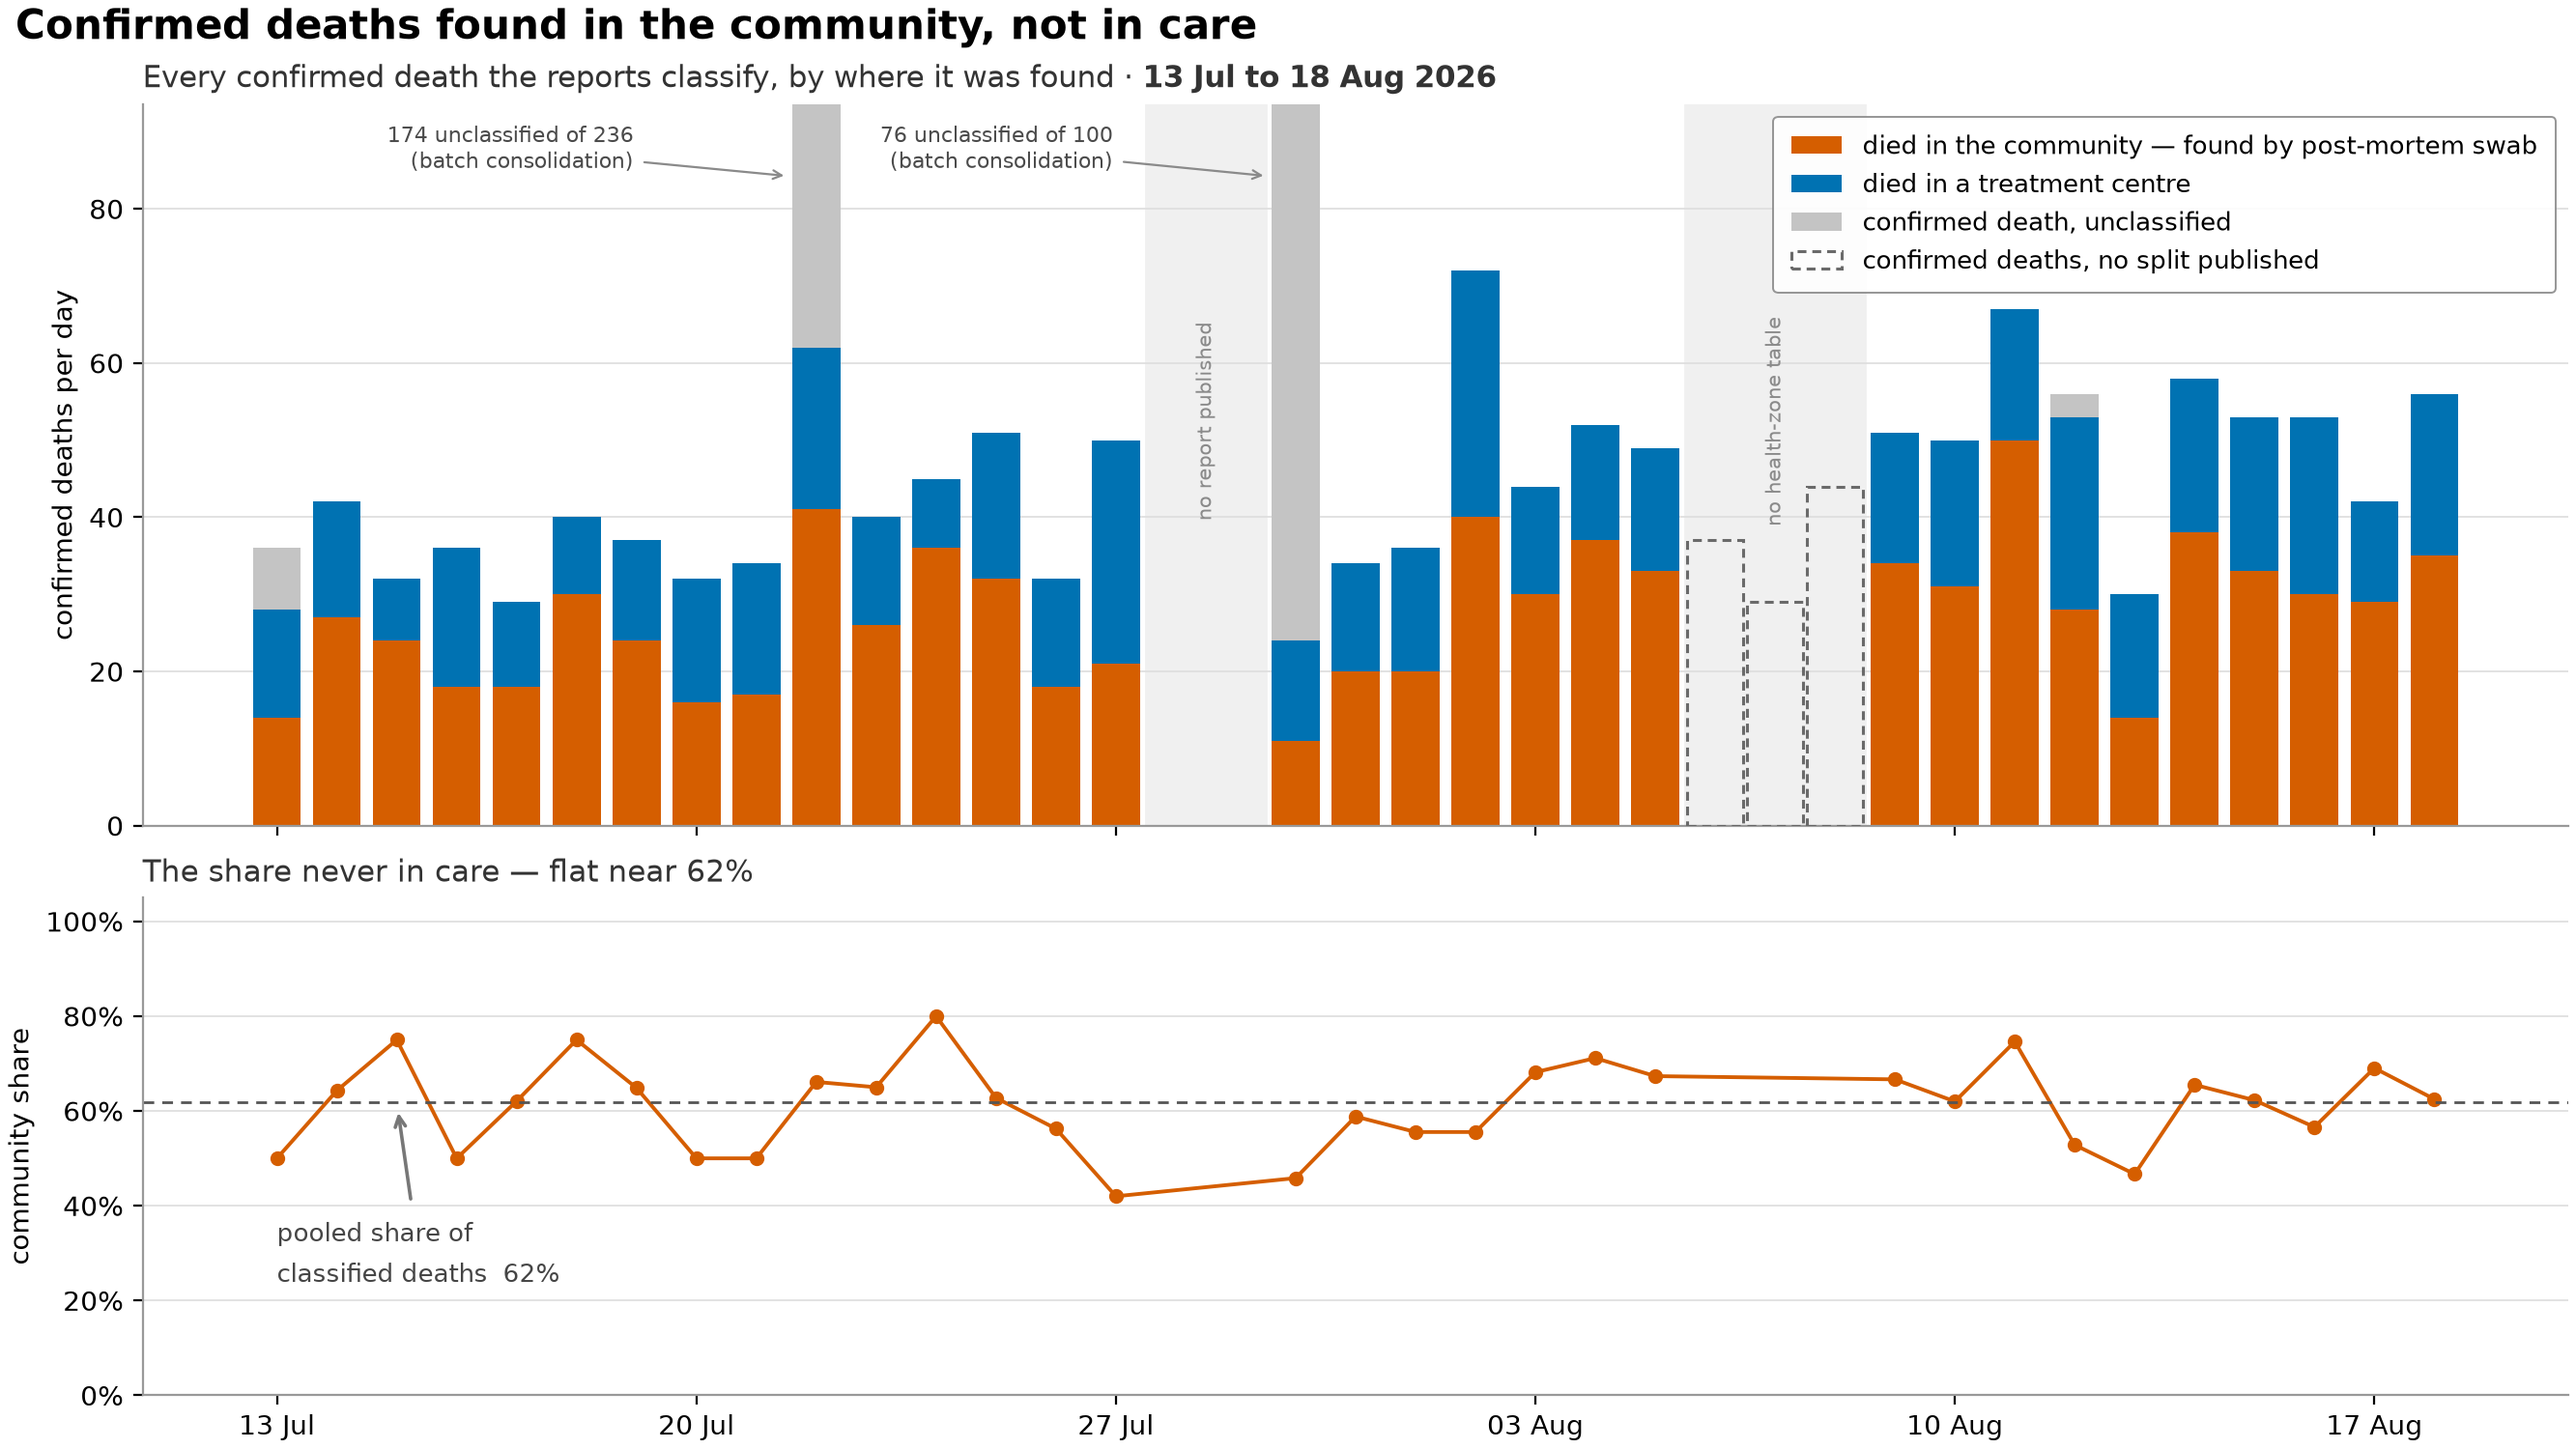
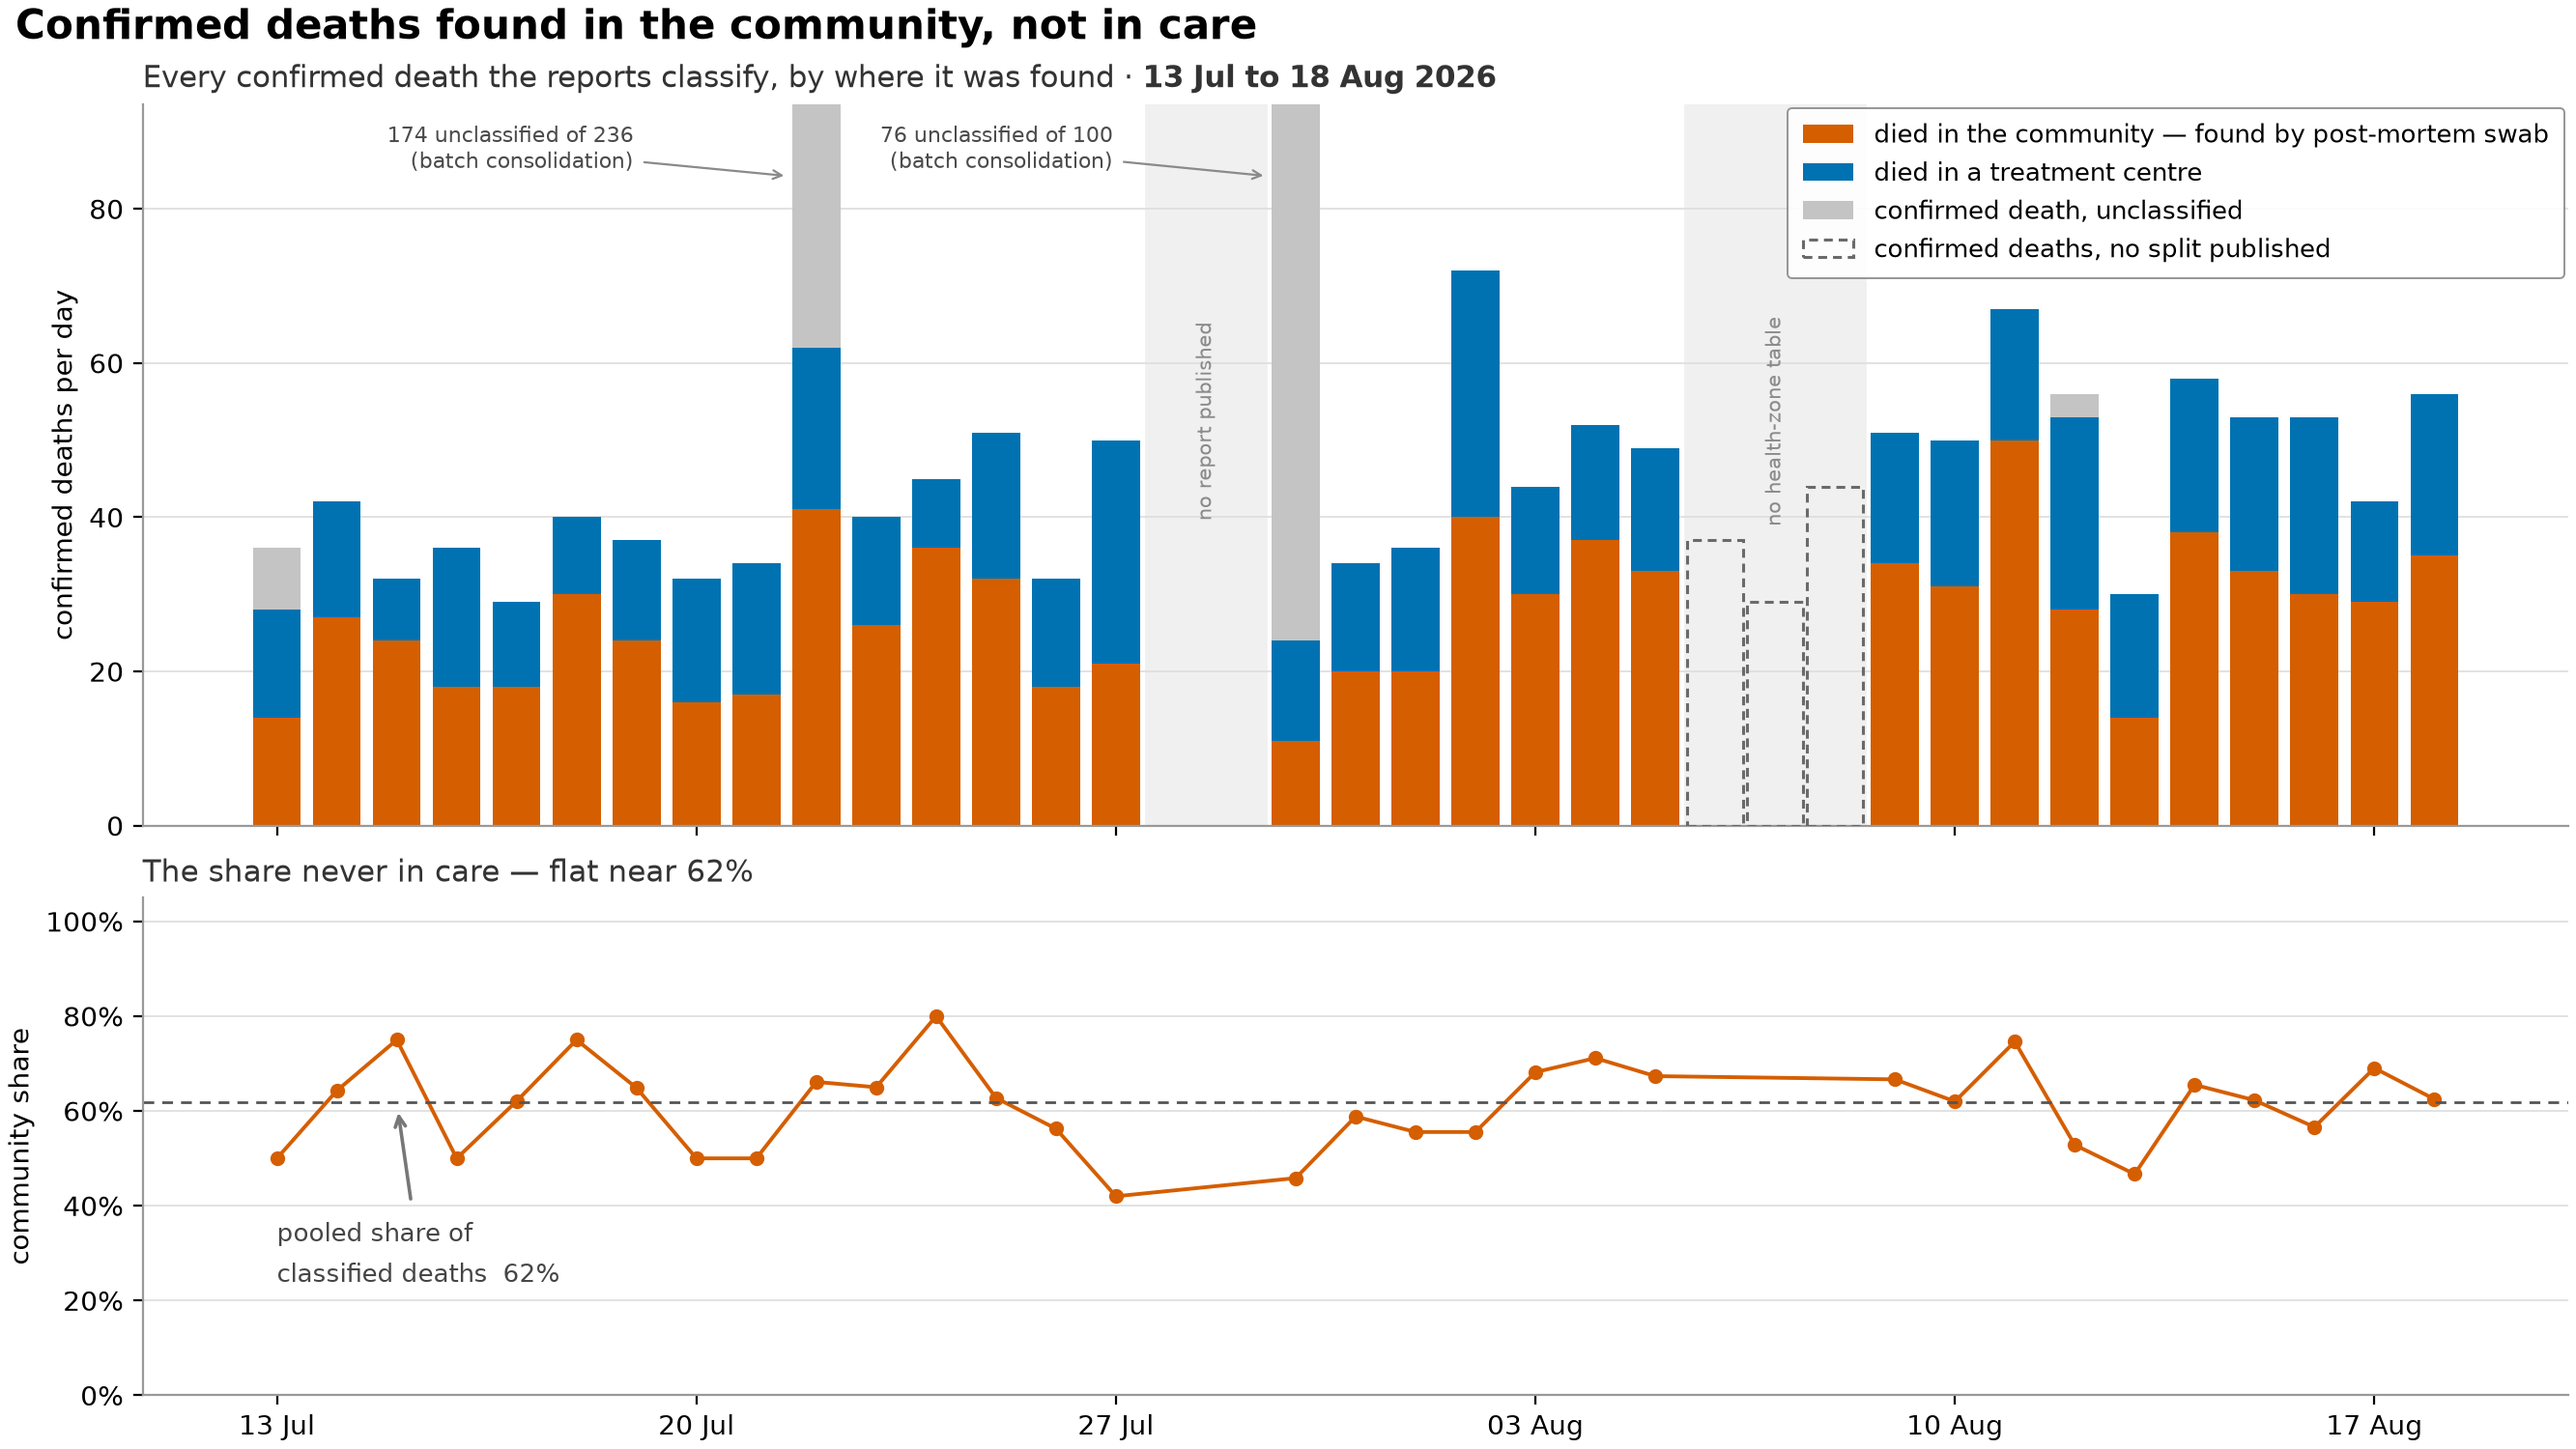
ascertainment: legend boxed, hard into the top-right corner
Claude-Session: https://claude.ai/code/session_015tkmBJ2UNKTmshByKopqW2

Changed region(s): [[0.6849, 0.0613, 0.9962, 0.2147]]

diff --git a/scripts/plot_figures.py b/scripts/plot_figures.py
@@ -421,7 +421,7 @@ def draw_release_grid(inputs: dict[str, Path], out: Path) -> None:
     # constrained_layout does not reserve space for a figure legend, so the
     # band is carved out of the layout rect explicitly or the second row
     # falls off the page.
-    fig.get_layout_engine().set(rect=(0, 0.105, 1, 0.875))
+    fig.get_layout_engine().set(rect=(0, 0.105, 1, 0.895))
     leg1 = fig.legend(handles=handles, loc="lower left", ncol=2,
                       frameon=False, fontsize=8.5, handlelength=1.1,
                       handleheight=1.1, columnspacing=1.6, labelspacing=0.6,
@@ -453,7 +453,7 @@ def draw_release_grid(inputs: dict[str, Path], out: Path) -> None:
                  x=0.008, ha="left", fontsize=14, fontweight="bold")
     ax.set_title(f"{nx} report-days carrying at least one observation · "
                  f"{ny} published streams · {all_dates[0]} to {all_dates[-1]}",
-                 loc="left", fontsize=9.5, color="#555555", pad=8)
+                 loc="left", fontsize=9.5, color="#555555", pad=30)
     out.parent.mkdir(parents=True, exist_ok=True)
     fig.savefig(out, dpi=200)
     plt.close(fig)
@@ -586,9 +586,13 @@ def draw_ascertainment(inputs: dict[str, Path], out: Path) -> None:
     # ABOVE the axes, not inside them. The header band is empty to the right
     # of the subtitle, and a legend sitting in the plot area covers data --
     # here the August gap band and the clipped 22 July bar.
-    leg = ax.legend(loc="lower right", bbox_to_anchor=(1.0, 1.055),
-                    fontsize=9.5, frameon=False, ncol=2, columnspacing=1.8,
-                    handlelength=1.3, handleheight=1.1, borderpad=0.4)
+    # Inside the axes, hard into the top-right corner -- borderaxespad is what
+    # pushes it there. A translucent white box with a thin grey border: over a
+    # bar an unbordered box reads as a hole punched in it.
+    leg = ax.legend(loc="upper right", fontsize=9.5, frameon=True,
+                    framealpha=0.9, facecolor="white", edgecolor="#8a8a8a",
+                    borderpad=0.6, borderaxespad=0.15)
+    leg.get_frame().set_linewidth(0.7)
     ax.grid(axis="y", **GRID)
 
     sh.plot(t, share, marker="o", markersize=4.5, linewidth=1.4, color=COMM)
